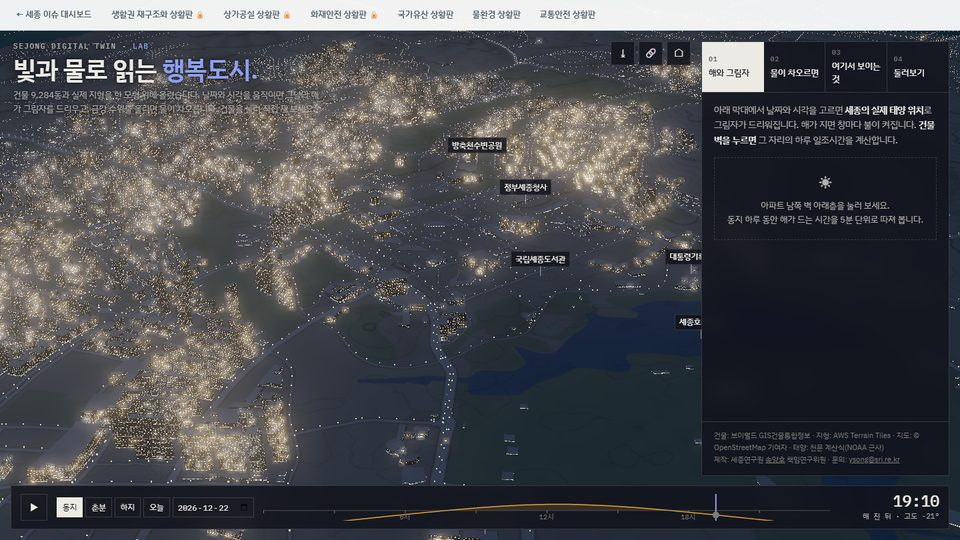
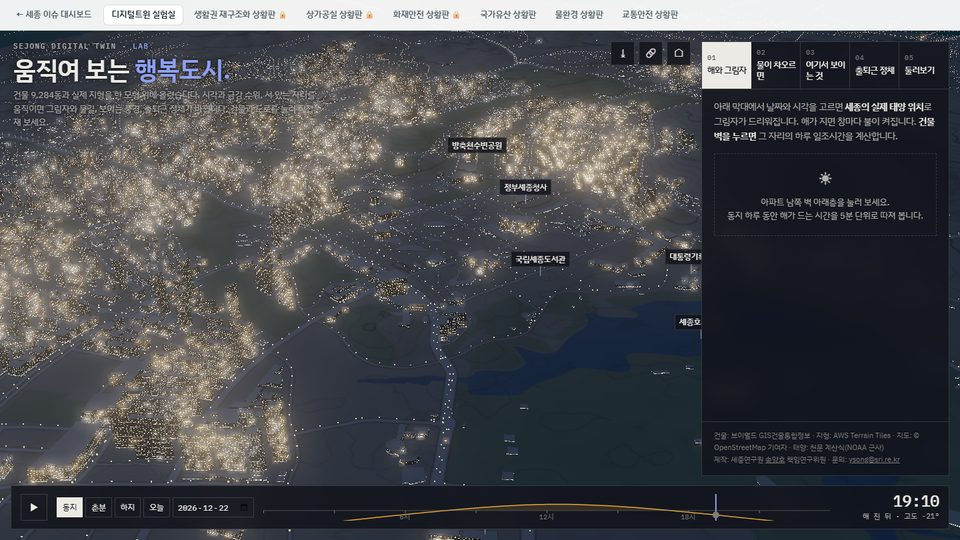
디지털트윈 실험실: 한 줄 질문·미리보기 그림을 새 제목에 맞춤

diff --git a/index.html b/index.html
@@ -251,7 +251,7 @@ body.viewing #home{display:none}
 (() => {
 "use strict";
 const D = [
-  {id: "lab", em: "🏙", cat: "도시 · 3D 실험실", q: "해와 물은 이 도시를 어떻게 지나가나", path: "lab_sejong/", title: "세종 디지털트윈 실험실", lock: false, cycle: "3D 시뮬레이션",
+  {id: "lab", em: "🏙", cat: "도시 · 3D 실험실", q: "도시를 움직여 보면 무엇이 달라지나", path: "lab_sejong/", title: "세종 디지털트윈 실험실", lock: false, cycle: "3D 시뮬레이션",
    desc: "행복도시 9,284동과 실제 지형을 3D 모형에 올려, 날짜·시각별 그림자와 일조시간, 금강 수위 시나리오, 눈높이 조망, 출퇴근 정체(ITS 구간 속도), 밤 풍경을 직접 시험해 봅니다.",
    who: "세종연구원 송양호", preview: true, pvLen: "50초"},
   {id: "zone", em: "🏘", cat: "도시계획 · 생활권", q: "생활권은 계획대로 작동하고 있나", path: "zone_sejong/", title: "세종 생활권 재구조화 상황판", lock: true, cycle: "수시 갱신",
